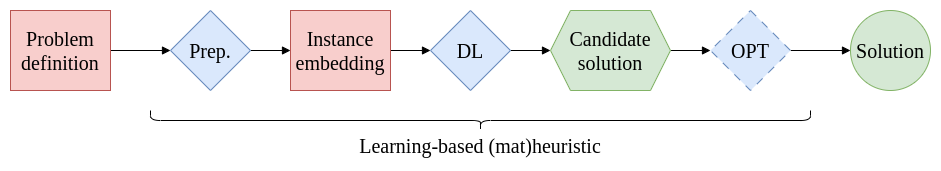
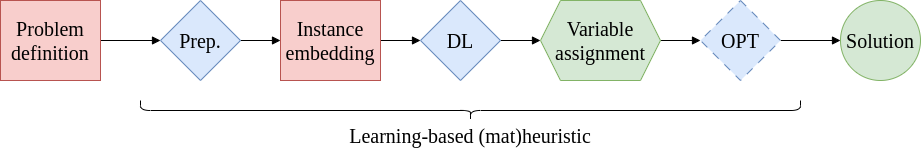
WIP: model output

diff --git a/_drafts/2023-06-27-literature-review-ml4co-2.md b/_drafts/2023-06-27-literature-review-ml4co-2.md
@@ -1,6 +1,6 @@
 ---
 layout: distill
-title: "ML4CO - Part 2: A less-brief review of supervised end-to-end models for mixed-integer linear programming"
+title: "ML4CO - Part 2: A (less-brief) review of supervised learning models for solution prediction of MILPs"
 date: 2023-09-01
 description: A review of state-of-the-art end-to-end heuristics for MILP built upon deep learning models trained (with supervision) to predict candidate solutions. 
 tags: ml4co milp msc-thesis deep-learning
@@ -65,8 +65,8 @@ Instead of an expert, we can use data and machine learning to develop a learning
 Machine learning allows us to distill the knowledge from data instead of the years of experience from an expert.
 Furthermore, machine learning models are fast to compute (during inference) and, more specifically for the case of deep learning models, have shown great results to high-dimensional structured data.
 
-One set of applications with promising results is to train a deep learning model through supervision to predict a candidate solution to an instance of an MILP problem.
-Such an *end-to-end* model can be used straight away, as a heuristic itseld, or it can be augmented, for example, to warmstart an MILP solver<d-cite key="khalil_mip-gnn_2022"></d-cite>, in a matheuristic.
+One set of applications with promising results is to train a deep learning model through supervision to predict variable assignments to an instance of an MILP problem.
+This *solution prediction* model can be used straight away, as a heuristic itself, or it can be augmented, for example, to warmstart an MILP solver<d-cite key="khalil_mip-gnn_2022"></d-cite>, in a matheuristic.
 The building blocks of an MILP (mat)heuristics based on supervised, end-to-end deep learning models are summarized in the diagram below.
 
 <div class="row mt-3">
@@ -75,9 +75,9 @@ The building blocks of an MILP (mat)heuristics based on supervised, end-to-end d
     </div>
 </div>
 <div class="caption">
-    Building blocks of a (mat)heuristics based on supervised, end-to-end deep learning models.
+    Building blocks of a (mat)heuristics based on deep learning models trained through supervision to predict solutions.
     The <em>Prep.</em> block represent the pre-processing operations necessary to embed an instance of an MILP problem into a format that can be fed to the deep learning model (<em>DL</em> block).
-    The model returns a predicted candidate solution, which can be rounded and directly provide the heuristic output, or can be optimized over (<em>OPT</em> block, with dashed border since it is optional), forming a matheuristic.
+    The model returns a variable assignment, which can be rounded and directly provide the heuristic output, or can be optimized over (<em>OPT</em> block, with dashed border since it is optional), forming a matheuristic.
     The style follows the diagrams from Bengio et al.<d-cite key="bengio_machine_2021"></d-cite>.
 </div>
 
@@ -94,6 +94,7 @@ $$
 \newcommand{\Q}{\mathbb{Q}}
 \newcommand{\vtheta}{\boldsymbol\theta}
 \newcommand\bm[1]{\boldsymbol{#1}}
+
 \begin{equation}\label{eq:milp-definition}\begin{split}
     \min_{\bm{x}} &\quad \bm{c}^T \bm{x} \\
     \text{s.t.}&\quad A\bm{x} \ge \bm{b} \\
@@ -118,11 +119,13 @@ In the past few years, significant contributions have shed a new light into this
 Authors have suggested many approaches to incorporate deep learning models into algorithms for MILP.
 Examples include using the model to help guide the tree search in a B&B algorithm<d-cite key="nair_solving_2021"></d-cite>, evaluating whether a decomposition can speed up the optimization<d-cite key="kruber_learning_2017"></d-cite>, and switching heuristics during the B&B iterations<d-cite key="liberto_dash_2016"></d-cite>.
 
-## End-to-end models
+## Solution prediction models
 
-End-to-end models are algorithms that take as input an instance of an MILP problem of interest, and provide as output a predicted optimal solution<d-footnote>Recall that an MILP may have multiple optimal solutions.</d-footnote>.
-Several challenges arise in developing an end-to-end model, such as the representation of the input MILP instances, the choice of deep learning model, and the training algorithm.
-In this section, we will present the multiple approaches in the literature for developing a model that is capable of predicting an optimal solution for MILP instances.
+Solution prediction models are algorithms that take as input an instance of an MILP problem of interest, and provide as output a variable assignment.
+Intuitively, the closer the predicted variable assignment is to the optimal solution (in terms of objective value), the better.
+However, due to the presence of constraints and the nonlinearity of the integrality requirements, providing high quality assignments becomes a significant challenge.
+In this section, I will present the multiple approaches in the literature for developing a model that is capable of predicting optimal variable assignments for MILP instances.
+<!-- More specifically, I will focus on the impacts of difference choices for the MILP instance representation, model architecture, and training algorithm. -->
 
 ### Model input
 
@@ -166,21 +169,47 @@ In other words, $$V_\textrm{var}$$ are nodes associated with variables, thus $$|
 Note that the graph has no ordering of nodes, thus, it is invariant to permutations of constraints and variables.
 In fact, if the graph is enhanced with node and edge weights derived from $$A$$, $$\bm{b}$$ and $$\bm{c}$$, and the nodes in $$V_{\rm var}$$ are annotated on whether they represent continuous or binary variables, the graph representation uniquely identifies MILP instances.
 
-### Training
+### Model output
 
-To use gradient-based training, the output of the model must be differentiable with respect to its parameters.
-A direct derivation of this fact is that the output of the model cannot be integer values.
-This is a clear obstacle, as the scope of this work is on models able to perform solution prediction and to train them through supervision.
+The choice of output architecture for deep learning models for solution prediction depends on the specific problem and objectives.
+Commonly, the focus is on the integer variables.
+Given an assignment for the integer variables, finding optimal values for the continuos variables resumes to solving an LP, which can be done in polynomial time.
+However, to use gradient-based training (a cornerstone of deep learning), the output of the model must be differentiable with respect to its parameters.
+Therefore, the output of the model cannot be integer values.
 
-One approach, as presented by Ding et al.<d-cite key="ding_accelerating_2020"></d-cite>, is to define the model's ouput as a probability estimate of the variable assignments in the solution for the MILP instances.
-In other words, define the model as a parameterized function
+Naturally, the model can be designed for a regression task, with a continuous output that contains the possible assignments for the integer variables.
+Then, to provide assignments, one can simply round the model's output to the nearest integer value.
+More formally, let us define the model as a parameterized function
+
+$$\begin{align*}
+f: \mathcal{I}\times \Theta &\longrightarrow \R^k \\
+I,\theta &\longmapsto y = f_\theta(I),
+\end{align*}$$
+
+where an assignment for the integer variables can be generated from $$\lfloor y \rceil$$.
+
+A "classification" approach, as presented by Ding et al.<d-cite key="ding_accelerating_2020"></d-cite>, is to define the model's ouput as a probability estimate of the variable assignments in the optimal solution for the MILP instances.
+For example, let us reformulate \eqref{eq:milp-definition} such that all integer variables are binary<d-footnote>Every MILP can be reformulated using solely binary variables.</d-footnote>.
+Let $$\bm{z}\in\{0,1\}^{k}$$ be the vector of binary variables of the problem.
+Then, the model is a parameterized function
 
 $$\begin{align*}
 f: \mathcal{I}\times \Theta &\longrightarrow [0,1]^k \\
-I,\theta &\longmapsto \hat{p}(\bm{x}=\bm{1}|I) = f_\theta(I),
+I,\theta &\longmapsto \hat{p}(\bm{z}=\bm{1}|I) = f_\theta(I),
 \end{align*}$$
 
-where $$\hat{p}(\bm{x}=\bm{1}|I)$$ is the vector of estimated probabilities that the binary variables take value 1 in a solution to $$I$$, and the outputs are constrained to the unit interval, e.g., through the sigmoid functon.
+where $$\hat{p}(\bm{z}=\bm{1}|I)\in [0,1]^k$$ is the vector of probability estimates that the binary variables take value 1 in an optimal solution to $$I$$.
+The model's output can easily be constrained to the unit interval, e.g., through the sigmoid function.
+Furthermore, this approach can be generalized to provide probability estimates to integer variables with any (finite) number of possible values, e.g., through softmax layers.
+One advantage of the classification approach is that the probability estimate can be used as a measure of _confidence_ in the predicted assignment for each variable.
+This confidence measure can be used to generate partial assignments (e.g., only assigning values if the respective confidence is above a certain threshold) or as a priority order (e.g., for branching).
+
+Further structures of the problem can be exploited in the architecture of the model's output.
+For example, to predict solutions for the planar Traveling Salesperson Problem, Vinyals et al. <d-cite key="vinyals_pointer_2015"></d-cite> use attention to provide as the output a permutation of the graph nodes that form the input sequence.
+Therefore, it is guaranteed that the model always predicts a valid Hamiltonian path (visits every city exactly once).
+
+### Training
+
 The parameter vector $$\theta$$ can be adjusted through maximum likelihood estimation, using as observed data a set of instance-solution pairs.
 Let $$\mathcal{D}=\{(I,\bm{x}^\star)\}$$ be such set of instances and optimal solutions, then the parameters of the model can be estimated through
 
@@ -204,12 +233,26 @@ $$
 where the weight is 
 
 $$
-  w_{I,\bm{x}} = \frac{\exp(\bm{c}^T \bm{x})}{\sum_{\bm{x}'\in X^\star}\exp(\bm{c}^T\bm{x}')}
+  w_{I,\bm{x}} = \frac{\exp(c(\bm{x}|I))}{\sum_{\bm{x}'\in X^\star}\exp(c(\bm{x}'|I))}
 ,$$
 
-that is, the influence of each feasible solution of each instance is weighed by its associated objective value.
+where $$c(\bm{x}|I)$$ is the objective value of assignment $$\bm{x}$$ for problem intance $$I$$.
+Note that the influence of each feasible solution of an instance in the gradient computation is weighed by its associated objective value, such that solutions with higher objective value will have (exponentially) more impacty.
+Furthermore, all instances have equal weight in the gradient estimation ($$\sum_{\bm{x}\in X^\star} w_{I,\bm{x}} = 1, \forall I$$).
 Intuitively, this approach would guide the model towards predicting candidate solutions within the feasible region.
 
+A clear obstacle in both training approaches presented above is that they require solving the combinatorial optimization problems to build the training data.
+This is not a major problem if historical data is available, as the historical solutions may be used.
+However, if new instances are required for training or if the historical solutions are not good enough, then building the training set may require a lot of computational effort.
+To circumvent this problem, a weakly-supervised training was proposed and evaluated by Anderson et al.<d-cite key="anderson_generative_2022"></d-cite> and Pacheco et al.<d-cite key="pacheco2023deeplearningbased"></d-cite>.
+The authors propose to train a surrogate model 
+
+$$\begin{align*}
+g: [0,1]^k \times \mathcal{I}\times \Theta &\longrightarrow \R \\
+\hat{p}, I, \theta &\longmapsto \hat{c}(\hat{x} |I) = g_\theta(\hat{p}, I),
+\end{align*}$$
+
+to predict the objective value of an assignment $$\hat{x}=\lceil \hat{p} \rfloor
 
 
 
